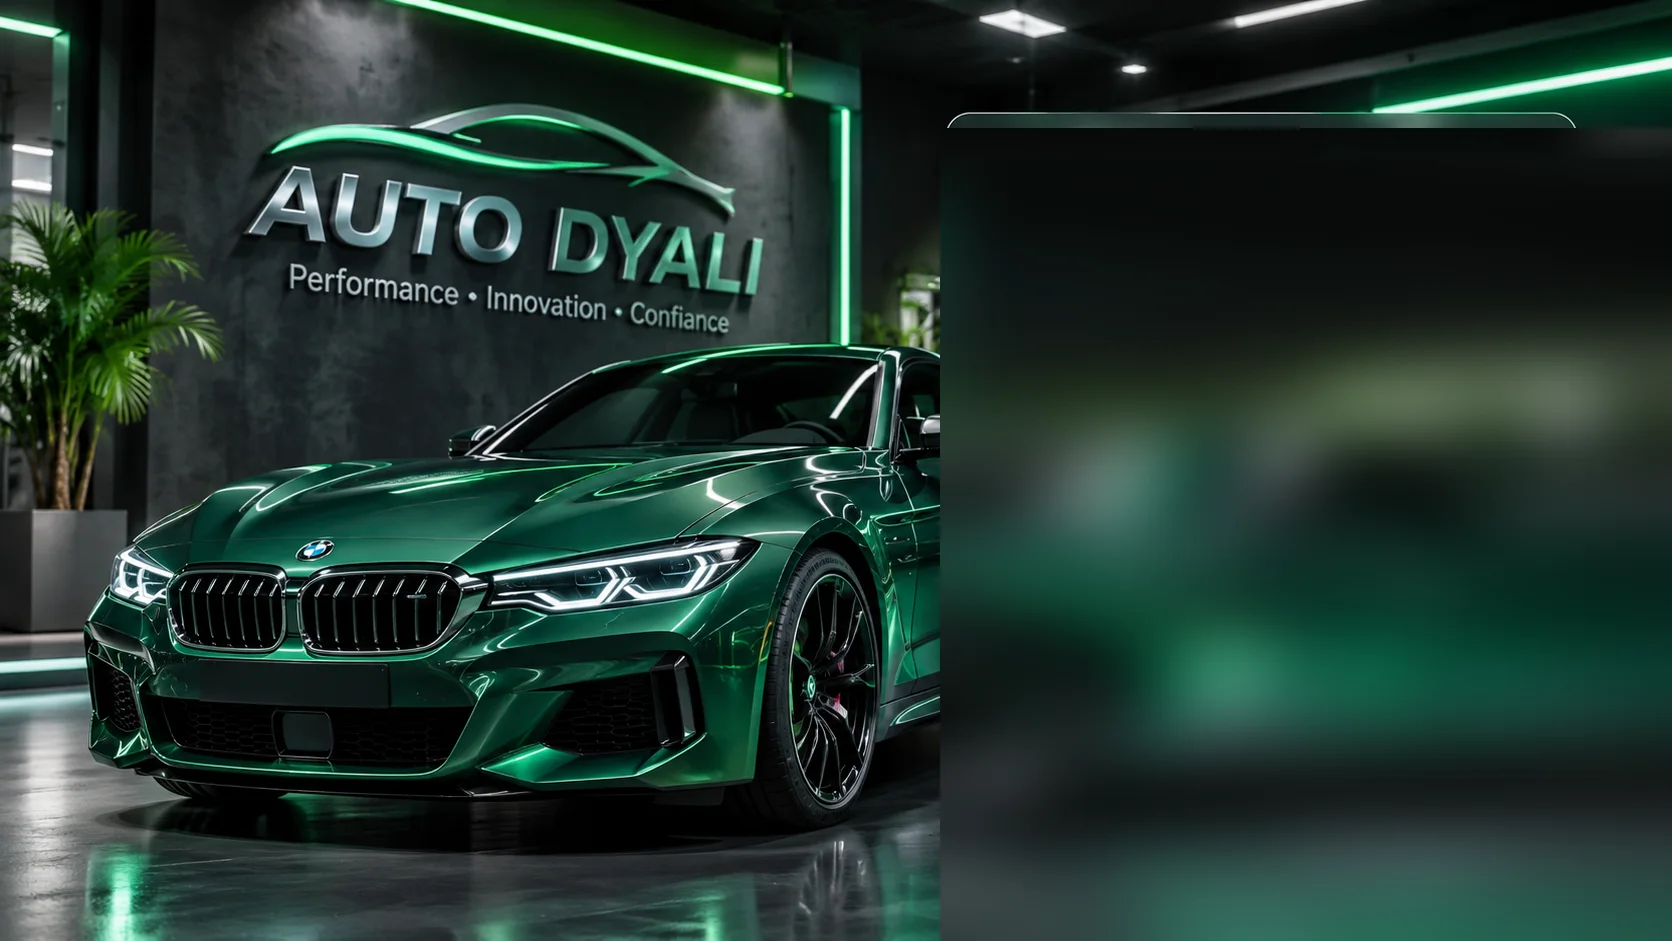
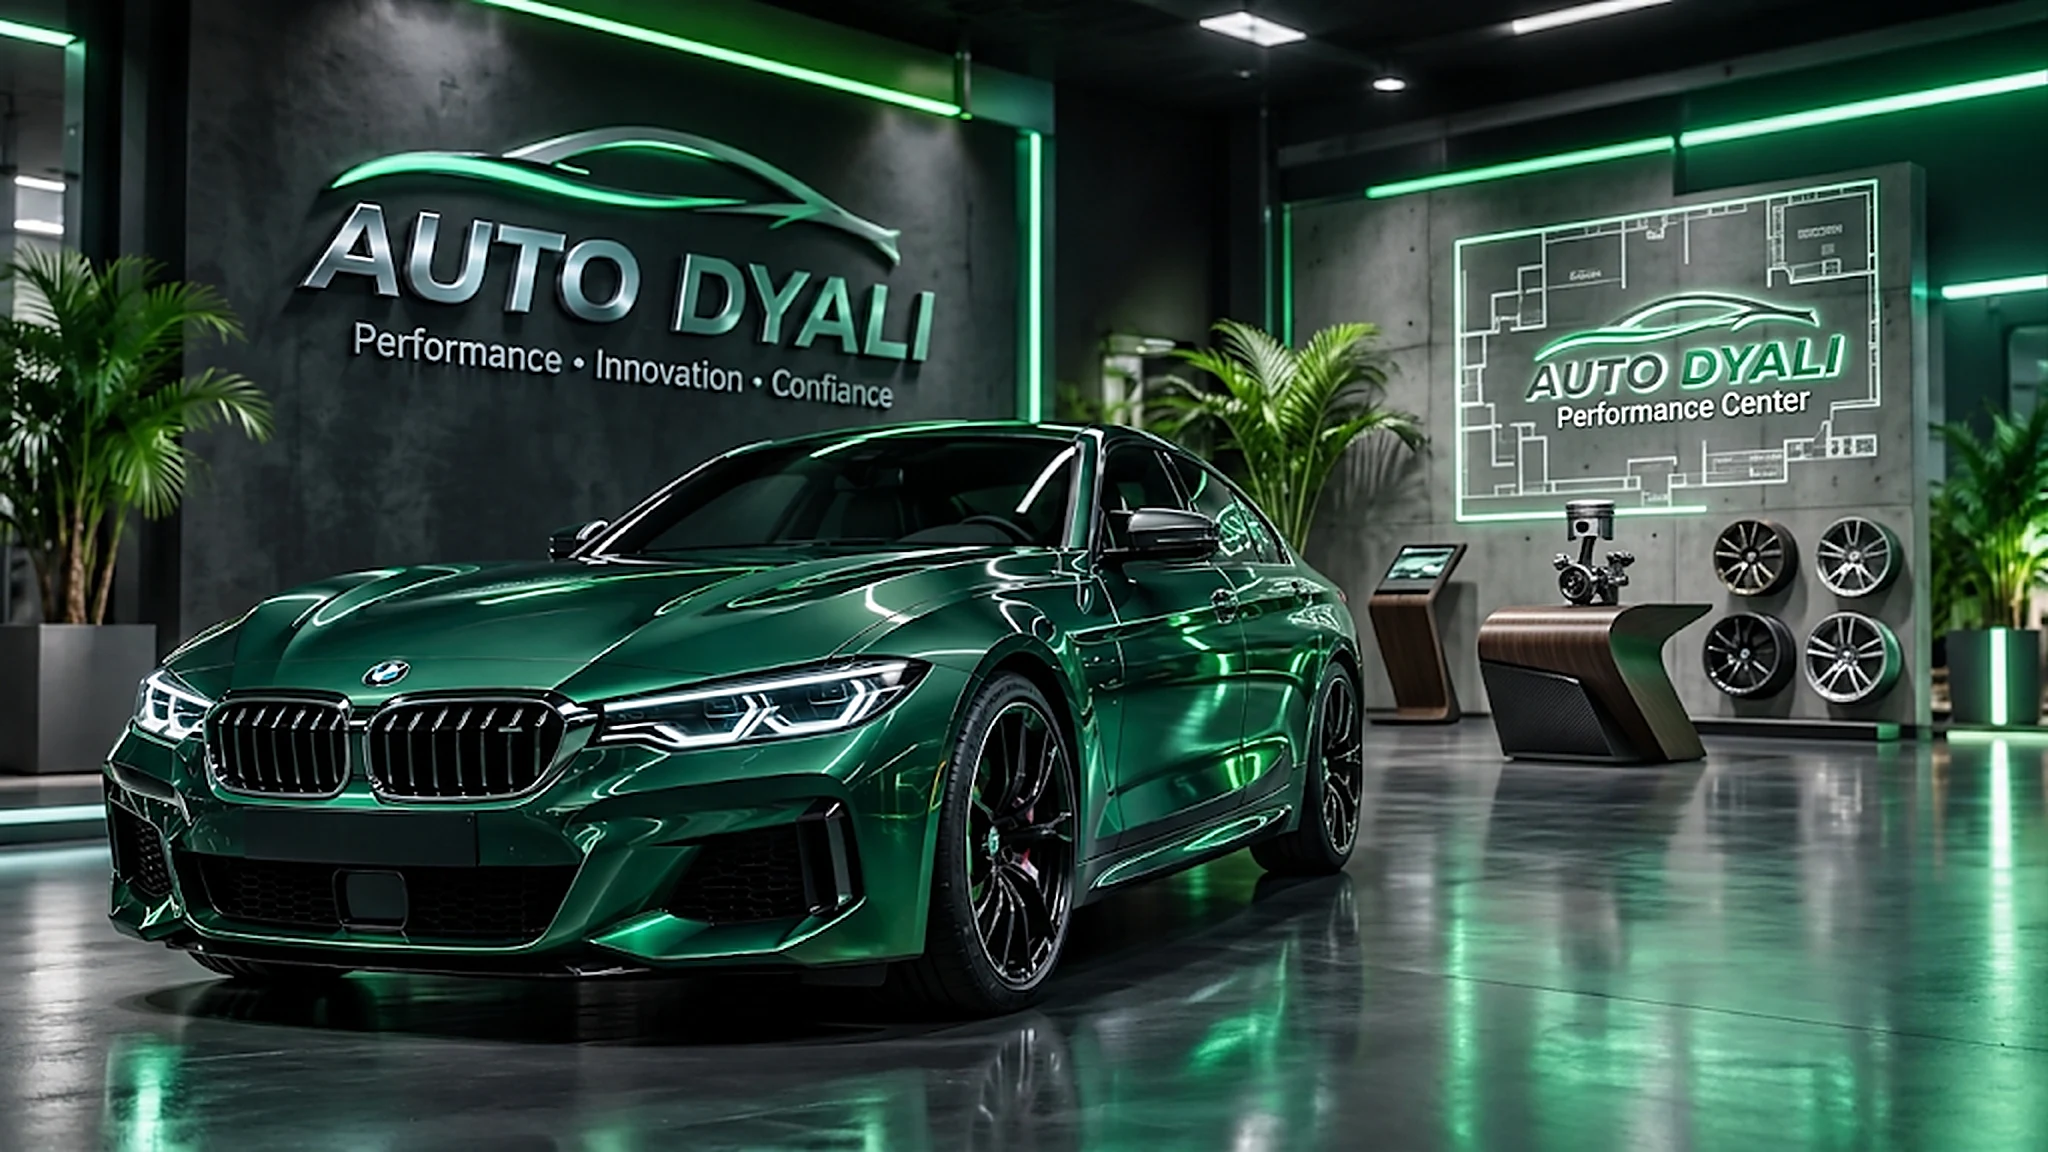
POS tablette dédiée (3 zones dès 1024px) + sidebar accessible + nouvelle scène connexion
- POS : disposition 3 zones (sidebar + catalogue + panier latéral) dès lg/1024px — tablette paysage ; portrait garde la vue mobile avec panier feuille
- Colonne sidebar en 'auto' : respecte la largeur rétractable 230/72px
- Accessibilité sidebar : title + aria-label sur chaque entrée (Dashboard et POS), icônes aria-hidden
- Cibles tactiles corrigées : Ajouter/Prestation libre/sélecteur véhicule 48px, champs prix/remise 44px, moyens secondaires 40px
- Bug corrigé : ScanChamp en double (deux écouteurs HID = double ajout au panier) → un seul
- Nouvelle scène connexion (conxxion.png) : desktop 2048×1152 nette, mobile portrait 1264×2257 avec prolongements fondus + reflet de sol
- Page de tests responsive (8 dimensions, mesures DOM) : 0px de débordement horizontal sur 360→1920
- Lint 0 err · build 40/40 · tests 24/24 + 21/21

diff --git a/src/components/pos-module.tsx b/src/components/pos-module.tsx
@@ -1380,9 +1380,9 @@ export function PosModule() {
   }
 
   return (
-    <section className="grid gap-5 xl:grid-cols-[13rem_1fr_23rem]">
-      {/* En-tête compacte mobile (cachée sur PC) */}
-      <div className="xl:hidden sticky top-0 z-40 flex items-center justify-between gap-2 border-b border-[#8FB59B]/20 px-4 py-3 bg-[#252D2D]/90 backdrop-blur-md">
+    <section className="grid gap-5 lg:grid-cols-[auto_minmax(0,1fr)_23rem]">
+      {/* En-tête compacte mobile (cachée sur PC / tablette paysage) */}
+      <div className="lg:hidden sticky top-0 z-40 flex items-center justify-between gap-2 border-b border-[#8FB59B]/20 px-4 py-3 bg-[#252D2D]/90 backdrop-blur-md">
         <button
           type="button"
           onClick={() => setPanierMobile(true)}
@@ -1408,7 +1408,7 @@ export function PosModule() {
        * Zone 1 — Barre latérale POS fixe (toujours visible sur PC)
        * ------------------------------------------------------------ */}
       <aside
-        className={`carte h-fit p-3 hidden xl:flex app-sidebar ${
+        className={`carte h-fit p-3 hidden lg:flex app-sidebar ${
           posSidebarCollapsed ? "is-collapsed" : ""
         }`}
       >
@@ -1434,8 +1434,10 @@ export function PosModule() {
                   actif ? "bg-[#8FB59B] font-bold text-[#252D2D]" : "text-[#E8ECE8]/80 hover:bg-[#344440] hover:text-[#E8ECE8]"
                 }`}
                 aria-pressed={actif}
+                title={n.label}
+                aria-label={n.label}
               >
-                <span className="shrink-0 text-xl">{n.icone === "carton" ? "📦" : n.icone === "client" ? "👤" : n.icone === "voiture" ? "🚗" : n.icone === "historique" ? "🕒" : n.icone === "rapport" ? "📄" : n.icone === "ca" ? "💳" : n.icone === "imprimante" ? "🖨" : n.icone === "cle" ? "🔧" : n.icone === "plus" ? "⚙" : "📋"}</span>
+                <span className="shrink-0 text-xl" aria-hidden="true">{n.icone === "carton" ? "📦" : n.icone === "client" ? "👤" : n.icone === "voiture" ? "🚗" : n.icone === "historique" ? "🕒" : n.icone === "rapport" ? "📄" : n.icone === "ca" ? "💳" : n.icone === "imprimante" ? "🖨" : n.icone === "cle" ? "🔧" : n.icone === "plus" ? "⚙" : "📋"}</span>
                 <span className="menu-label">{n.label}</span>
               </button>
             );
@@ -1517,13 +1519,8 @@ export function PosModule() {
               </button>
             ))}
           </div>
-          <div className="mt-3 flex items-center gap-2 border-t border-[#8FB59B]/10 pt-3">
-            <p className="text-[10px] uppercase tracking-[0.2em] text-[#A7B7A8] shrink-0">Scan</p>
-            <div className="flex-1">
-              <ScanChamp onCode={traiterCode} placeholder="EAN-13, QR, code-barres…" />
-            </div>
-            <p className="text-[10px] text-[#A7B7A8]">📷 caméra</p>
-          </div>
+          {/* Scan : un seul ScanChamp sur la page (écouteur HID global unique
+              — deux instances traiteraient chaque code en double). */}
         </div>
 
         {/* Sélecteur véhicule facultatif : Marque → Modèle → Année → Motorisation → Version */}
@@ -1532,7 +1529,7 @@ export function PosModule() {
             <button
               type="button"
               onClick={() => setVehOuvert(!vehOuvert)}
-              className="min-h-9 rounded-lg border border-[#8FB59B]/40 px-3 text-xs font-semibold text-[#DFE7E2]"
+              className="min-h-12 rounded-lg border border-[#8FB59B]/40 px-3 text-xs font-semibold text-[#DFE7E2]"
               aria-expanded={vehOuvert}
             >
               🚗 Sélecteur véhicule (facultatif) {vehOuvert ? "▲" : "▼"}
@@ -1734,7 +1731,7 @@ export function PosModule() {
                     <button
                       type="button"
                       onClick={() => ajouterProduit(p)}
-                      className="min-h-9 rounded-lg bg-[#8FB59B] px-3 text-xs font-bold text-[#252D2D]"
+                      className="min-h-12 rounded-lg bg-[#8FB59B] px-3 text-sm font-bold text-[#252D2D]"
                     >
                       Ajouter
                     </button>
@@ -1757,8 +1754,8 @@ export function PosModule() {
        * ------------------------------------------------------------ */}
       <aside
         className={`${
-          panierMobile ? "fixed inset-0 z-40 flex overflow-y-auto" : "hidden xl:flex"
-        } carte flex-col p-4 sm:p-5 xl:sticky xl:top-24 xl:inset-auto xl:z-auto xl:h-fit`}
+          panierMobile ? "fixed inset-0 z-40 flex overflow-y-auto" : "hidden lg:flex"
+        } carte flex-col p-4 sm:p-5 lg:sticky lg:top-24 lg:inset-auto lg:z-auto lg:h-fit`}
       >
         <div className="flex items-center justify-between gap-2">
           <h2 className="font-bold text-[#E8ECE8]">Panier</h2>
@@ -1778,7 +1775,7 @@ export function PosModule() {
             <button
               type="button"
               onClick={() => setPanierMobile(false)}
-              className="min-h-8 min-w-8 rounded-lg bg-[#344440] text-sm text-[#DFE7E2] xl:hidden"
+              className="min-h-8 min-w-8 rounded-lg bg-[#344440] text-sm text-[#DFE7E2] lg:hidden"
               aria-label="Fermer le panier"
             >
               ✕
@@ -1907,7 +1904,7 @@ export function PosModule() {
                     value={l.prix}
                     disabled={!posEdit}
                     onChange={(e) => majLigne(l.cle, { prix: Math.max(0, Number(e.target.value) || 0) })}
-                    className="champ min-h-9 w-20 px-1 py-0.5 text-xs disabled:opacity-50"
+                    className="champ min-h-11 w-20 px-1 py-0.5 text-xs disabled:opacity-50"
                     aria-label={`Prix unitaire de ${l.nom}`}
                     title={posEdit ? "Prix unitaire" : "Permission requise pour modifier le prix"}
                   />
@@ -1924,7 +1921,7 @@ export function PosModule() {
                     value={l.remisePct}
                     disabled={!posEdit}
                     onChange={(e) => majLigne(l.cle, { remisePct: Math.min(100, Math.max(0, Number(e.target.value) || 0)) })}
-                    className="champ min-h-9 w-14 px-1 py-0.5 text-xs disabled:opacity-50"
+                    className="champ min-h-11 w-14 px-1 py-0.5 text-xs disabled:opacity-50"
                     aria-label={`Remise en % de ${l.nom}`}
                     title={posEdit ? "Remise de la ligne (%)" : "Permission requise pour la remise"}
                   />
@@ -1954,7 +1951,7 @@ export function PosModule() {
         <button
           type="button"
           onClick={ajouterPrestationLibre}
-          className="mt-2 min-h-9 w-full rounded-lg border border-dashed border-[#8FB59B]/40 text-xs text-[#DFE7E2]"
+          className="mt-2 min-h-12 w-full rounded-lg border border-dashed border-[#8FB59B]/40 text-xs text-[#DFE7E2]"
         >
           + Prestation libre (montage, main-d&apos;œuvre…)
         </button>
@@ -2041,7 +2038,7 @@ export function PosModule() {
       </aside>
 
       {/* Barre de navigation fixe smartphone — 5 accès métiers toujours accessibles */}
-      <nav className="fixed bottom-0 left-0 right-0 z-40 flex border-t border-[#8FB59B]/20 bg-[#1D2424]/95 p-1 backdrop-blur-md xl:hidden safe-bas">
+      <nav className="fixed bottom-0 left-0 right-0 z-40 flex border-t border-[#8FB59B]/20 bg-[#1D2424]/95 p-1 backdrop-blur-md lg:hidden safe-bas">
         {[
           { label: "Catalogue", icone: "📦", onClick: () => { setPanierMobile(false); setPosSection("catalogue"); } },
           { label: "Panier", icone: "🛒", onClick: () => setPanierMobile(true) },
@@ -2066,7 +2063,7 @@ export function PosModule() {
           </button>
         ))}
       </nav>
-      <div className="h-24 xl:hidden" aria-hidden="true" />
+      <div className="h-24 lg:hidden" aria-hidden="true" />
 
       {/* ------------------------------------------------------------
        * Panneau de paiement compact (sans quitter le POS)
@@ -2170,7 +2167,7 @@ export function PosModule() {
                       type="button"
                       onClick={() => choisirMode(m.cle)}
                       aria-pressed={actif}
-                      className={`min-h-9 shrink-0 rounded-lg px-2.5 py-1.5 text-[10px] transition ${
+                      className={`min-h-10 shrink-0 rounded-lg px-2.5 py-1.5 text-[10px] transition ${
                         actif
                           ? "bg-[#8FB59B] font-bold text-[#252D2D]"
                           : "bg-[#344440] text-[#DFE7E2]/80 hover:bg-[#41524E]"

diff --git a/docs-refonte/tests-responsive.html b/docs-refonte/tests-responsive.html
@@ -1,0 +1,101 @@
+<!DOCTYPE html>
+<html lang="fr">
+<head>
+<meta charset="utf-8">
+<title>Tests responsive AUTO DYALI — mesures DOM par dimensions</title>
+<style>
+  body { font-family: system-ui, sans-serif; background: #1d2424; color: #e8ece8; margin: 0; padding: 16px; }
+  h1 { font-size: 18px; }
+  .bloc { margin: 24px 0; border: 1px solid #46524d; border-radius: 12px; padding: 12px; }
+  .entete { display: flex; justify-content: space-between; align-items: center; margin-bottom: 8px; }
+  .ok { color: #4d9b73; font-weight: 700; }
+  .ko { color: #c66a68; font-weight: 700; }
+  .frame-wrap { border: 2px dashed #46524d; border-radius: 8px; overflow: hidden; }
+  iframe { border: 0; display: block; }
+  table { width: 100%; border-collapse: collapse; font-size: 12px; margin-top: 8px; }
+  td, th { border: 1px solid #46524d; padding: 4px 8px; text-align: left; }
+  .val { font-family: ui-monospace, monospace; }
+</style>
+</head>
+<body>
+<h1>Tests responsive AUTO DYALI — mesures DOM réelles par dimensions (iframes même origine)</h1>
+<p>Chaque iframe charge la page cible à la largeur exacte demandée. Les media queries CSS s'appliquent à la largeur de l'iframe (comportement identique à un viewport réel pour le CSS).</p>
+<div id="tests"></div>
+<script>
+const CIBLES = [
+  { nom: "Petit smartphone", l: 360, h: 640 },
+  { nom: "Smartphone standard", l: 390, h: 844 },
+  { nom: "Grand smartphone", l: 430, h: 932 },
+  { nom: "Tablette portrait", l: 768, h: 1024 },
+  { nom: "Tablette paysage", l: 1024, h: 768 },
+  { nom: "Petit PC", l: 1280, h: 720 },
+  { nom: "PC", l: 1440, h: 900 },
+  { nom: "Grand écran", l: 1920, h: 1080 },
+];
+const PAGES = [
+  { cle: "connexion", url: "/connexion/" },
+  { cle: "splash", url: "/" },
+];
+const conteneur = document.getElementById("tests");
+for (const page of PAGES) {
+  for (const t of CIBLES) {
+    const bloc = document.createElement("div");
+    bloc.className = "bloc";
+    bloc.id = `bloc-${page.cle}-${t.l}`;
+    bloc.innerHTML = `
+      <div class="entete"><strong>${page.cle} — ${t.nom} ${t.l}×${t.h}</strong><span class="val" id="res-${page.cle}-${t.l}">mesure…</span></div>
+      <div class="frame-wrap" style="width:${t.l}px;max-width:100%"><iframe id="fr-${page.cle}-${t.l}" src="${page.url}" style="width:${t.l}px;height:${Math.min(t.h, 560)}px"></iframe></div>
+      <table id="tab-${page.cle}-${t.l}"></table>`;
+    conteneur.appendChild(bloc);
+  }
+}
+function mesurer(fr, cle, t) {
+  try {
+    const d = fr.contentDocument;
+    if (!d || !d.documentElement) return null;
+    const de = d.documentElement;
+    const debord = de.scrollWidth - de.clientWidth;
+    const mq = (q) => fr.contentWindow.matchMedia(q).matches;
+    const lignes = [];
+    lignes.push(["Débordement horizontal (px)", debord, debord <= 0]);
+    lignes.push(["Breakpoint mobile CSS (<640px)", mq("(max-width: 639px)"), null]);
+    lignes.push(["Breakpoint tablette CSS (640-1023px)", mq("(min-width: 640px) and (max-width: 1023px)"), null]);
+    lignes.push(["Breakpoint desktop CSS (≥1024px)", mq("(min-width: 1024px)"), null]);
+    // Éléments clés selon la page
+    if (cle === "connexion") {
+      lignes.push(["Carte verre connexion", !!d.querySelector(".panneau-connexion"), !!d.querySelector(".panneau-connexion")]);
+      lignes.push(["Titre « Bienvenue ! »", d.body.innerText.includes("Bienvenue"), d.body.innerText.includes("Bienvenue")]);
+      lignes.push(["Bouton Se connecter", d.body.innerText.includes("Se connecter"), d.body.innerText.includes("Se connecter")]);
+      lignes.push(["Footer marque", d.body.innerText.includes("Performance • Innovation • Confiance"), d.body.innerText.includes("Performance • Innovation • Confiance")]);
+      lignes.push(["Champs email + mot de passe", d.querySelectorAll("input").length >= 2, d.querySelectorAll("input").length >= 2]);
+    }
+    if (cle === "splash") {
+      lignes.push(["Image splash présente", !!d.querySelector("img[src*='splash']"), !!d.querySelector("img[src*='splash']")]);
+      lignes.push(["Redirection ou splash actif", true, true]);
+    }
+    return lignes;
+  } catch (e) {
+    return [["Erreur d'accès iframe", String(e), false]];
+  }
+}
+function rendre() {
+  for (const page of PAGES) {
+    for (const t of CIBLES) {
+      const fr = document.getElementById(`fr-${page.cle}-${t.l}`);
+      const tab = document.getElementById(`tab-${page.cle}-${t.l}`);
+      const res = document.getElementById(`res-${page.cle}-${t.l}`);
+      const lignes = mesurer(fr, page.cle, t);
+      if (!lignes) { res.textContent = "non chargée"; continue; }
+      let toutOk = true;
+      tab.innerHTML = lignes.map(([k, v, ok]) => {
+        if (ok === false) toutOk = false;
+        return `<tr><td>${k}</td><td class="val">${v === null ? "—" : v}</td><td>${ok === null ? "info" : (ok ? '<span class="ok">OK</span>' : '<span class="ko">DÉFAUT</span>')}</td></tr>`;
+      }).join("");
+      res.innerHTML = toutOk ? '<span class="ok">✔ conforme</span>' : '<span class="ko">✘ défaut détecté</span>';
+    }
+  }
+}
+window.addEventListener("load", () => setTimeout(rendre, 800));
+</script>
+</body>
+</html>

diff --git a/src/components/shell-app.tsx b/src/components/shell-app.tsx
@@ -217,6 +217,8 @@ export function ShellApp({
           href={m.href}
           onClick={() => setOuvert(false)}
           aria-current={actif === m.label ? "page" : undefined}
+          title={m.label}
+          aria-label={m.label}
           className={cn(
             "flex items-center gap-3 rounded-xl px-3.5 py-2.5 text-sm transition",
             actif === m.label
